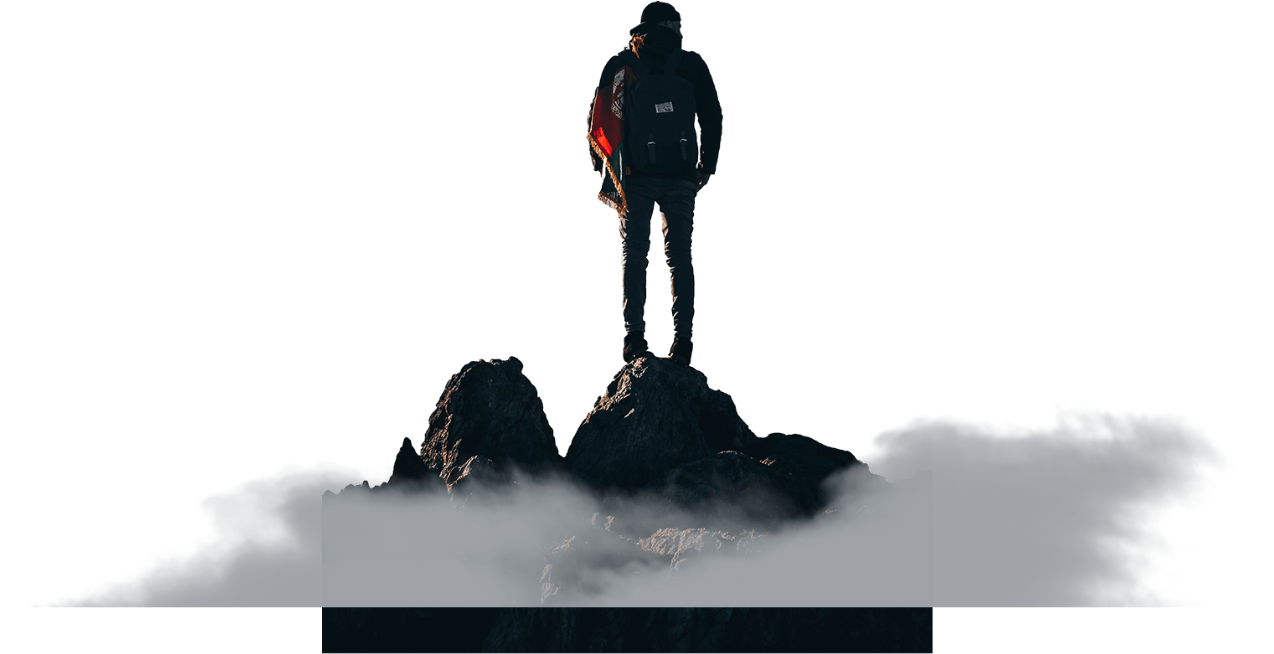
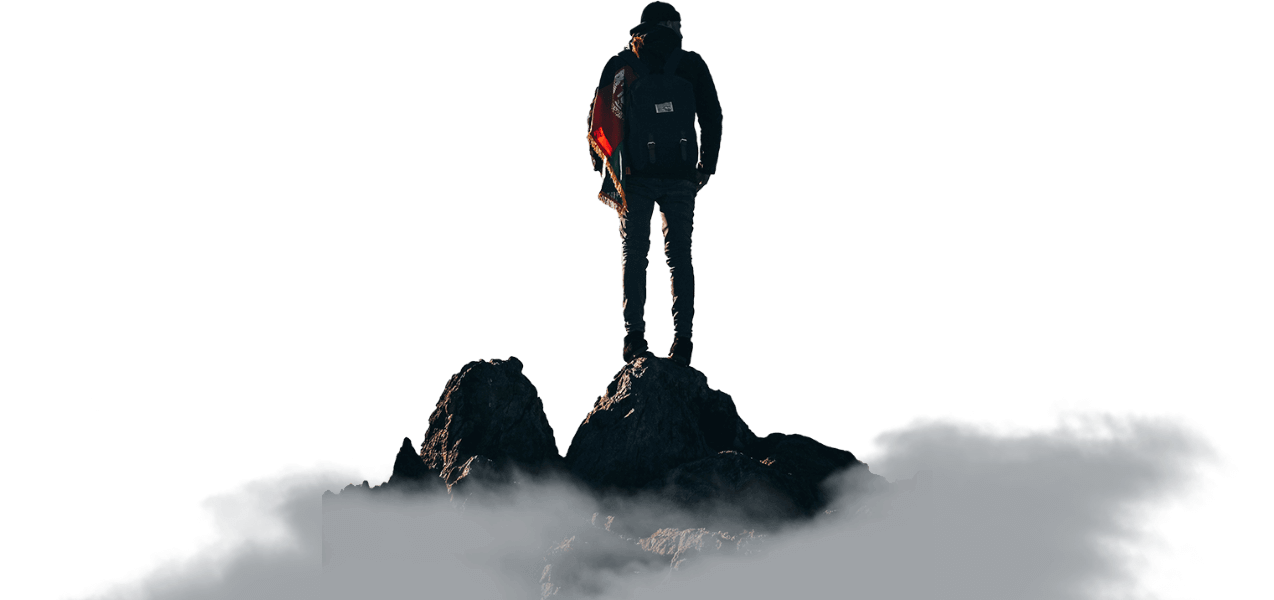
optimizando imagenes

diff --git a/assets/css/style.css b/assets/css/style.css
@@ -11,13 +11,13 @@ html , body{
 }
 .hero-image{
     width: 100%;
-    background: url(/assets/img/adventure.png) no-repeat 50% 50%;
+    background: url(../img/adventure.jpg) no-repeat 50% 50%;
     height: 100vh;
     background-size: cover;
     position: absolute;
 }
 .parallax-el{
-    background: url(/assets/img/foreground.png) no-repeat 50% 50%;
+    background: url(../img/foreground.png) no-repeat 50% 50%;
     background-size:contain;
     position: absolute;
     width: 100%;
@@ -25,7 +25,7 @@ html , body{
     top:40%;
 }
 .text{
-    background:url(/assets/img/text.png) no-repeat 50% 50%;
+    background:url(../img/text.png) no-repeat 50% 50%;
     background-size: contain;
     width: 100%;
     height: 40%;
@@ -33,7 +33,7 @@ html , body{
     top:42%;
 }
 .clouds{
-    background: url(/assets/img/clouds.png) no-repeat 50% 50%;
+    background: url(../img/clouds.png) no-repeat 50% 50%;
     background-size:cover;
     position: absolute;
     width: 100%;

diff --git a/index.html b/index.html
@@ -5,7 +5,7 @@
     <meta http-equiv="X-UA-Compatible" content="IE=edge">
     <meta name="viewport" content="width=device-width, initial-scale=1.0">
     <title>Parallax</title>
-    <link rel="stylesheet" href="assets/css/style.css">
+    <link rel="stylesheet" href="./assets/css/style.css">
     <link href="https://cdn.jsdelivr.net/npm/bootstrap@5.1.3/dist/css/bootstrap.min.css" rel="stylesheet" integrity="sha384-1BmE4kWBq78iYhFldvKuhfTAU6auU8tT94WrHftjDbrCEXSU1oBoqyl2QvZ6jIW3" crossorigin="anonymous">
     <link href="https://fonts.googleapis.com/css2?family=Montserrat:wght@500&display=swap" rel="stylesheet">
 </head>
